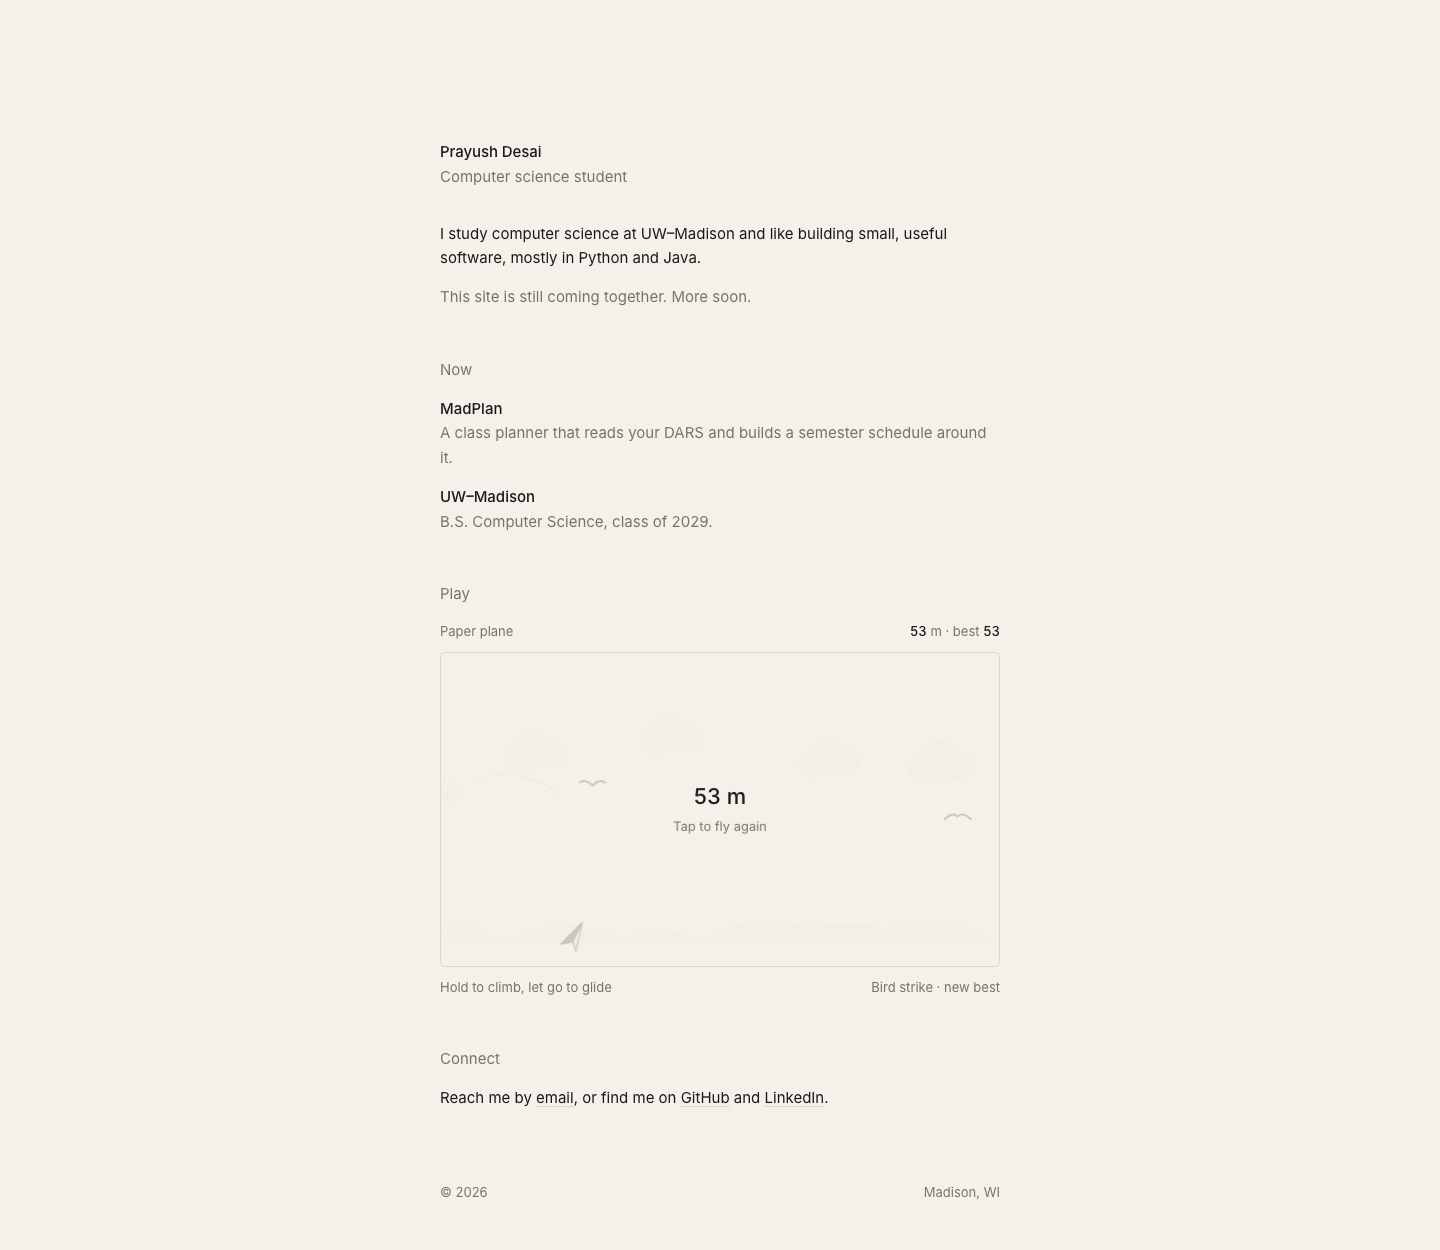
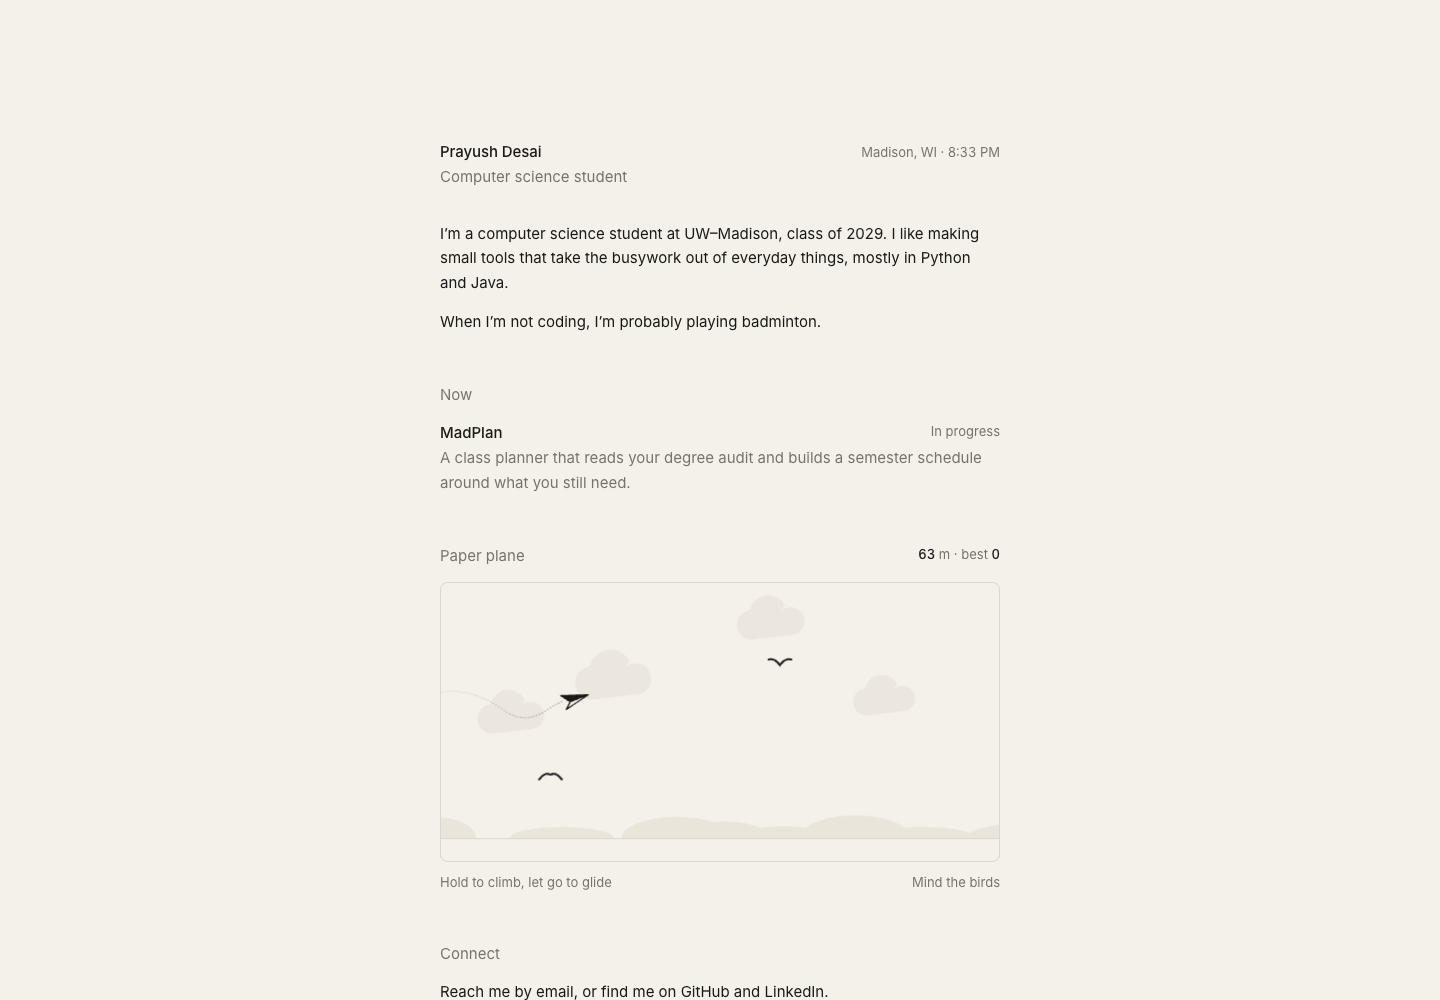
Tighten homepage: clock, personal intro, lighter game framing

diff --git a/index.html b/index.html
@@ -4,7 +4,7 @@
 <meta charset="utf-8">
 <meta name="viewport" content="width=device-width, initial-scale=1">
 <title>Prayush Desai</title>
-<meta name="description" content="Prayush Desai studies computer science at UW–Madison and is building MadPlan, a class planner for UW students.">
+<meta name="description" content="Prayush Desai studies computer science at UW-Madison and is building MadPlan, a class planner for UW students.">
 <meta name="theme-color" content="#f4f1ea">
 <meta name="color-scheme" content="light">
 <link rel="canonical" href="https://prayushdesai.com/">
@@ -31,6 +31,7 @@
   body {
     background: var(--bg); color: var(--ink);
     font: 400 15px/1.65 "Inter", system-ui, sans-serif;
+    text-wrap: pretty;
     font-feature-settings: "cv11", "ss01";
     -webkit-font-smoothing: antialiased;
   }
@@ -45,8 +46,10 @@
   }
   a:hover, a:focus-visible { text-decoration-color: currentColor; outline: none; }
 
+  header { display: flex; justify-content: space-between; align-items: baseline; gap: 16px; }
   h1 { font-size: 15px; font-weight: 500; letter-spacing: -.005em; }
-  .role { color: var(--soft); }
+  .role, .clock { color: var(--soft); }
+  .clock { font-size: 13px; font-variant-numeric: tabular-nums; white-space: nowrap; }
 
   section { margin-top: 48px; }
   h2 { font-size: 15px; font-weight: 400; color: var(--soft); margin-bottom: 14px; }
@@ -55,8 +58,12 @@
   .soft { color: var(--soft); }
 
   ul { list-style: none; display: grid; gap: 14px; }
+  li { display: grid; grid-template-columns: 1fr auto; column-gap: 16px; }
   li .t { font-weight: 500; }
-  li .d { display: block; color: var(--soft); }
+  li .tag { font-size: 13px; color: var(--soft); align-self: baseline; }
+  li .d { grid-column: 1 / -1; color: var(--soft); }
+  h2 .score { float: right; font-size: 13px; }
+  h2 .score b { font-weight: 500; color: var(--ink); font-variant-numeric: tabular-nums; }
 
   footer { margin-top: 72px; display: flex; justify-content: space-between; gap: 16px; font-size: 13px; color: var(--soft); }
 
@@ -67,16 +74,13 @@
   .rise:nth-child(6) { animation-delay: .30s; } .rise:nth-child(7) { animation-delay: .36s; }
   @keyframes in { to { opacity: 1; transform: none; } }
 
-  .game-head, .game-foot { display: flex; justify-content: space-between; gap: 12px; font-size: 13px; color: var(--soft); }
-  .game-head { margin-bottom: 10px; }
-  .game-head b { font-weight: 500; color: var(--ink); font-variant-numeric: tabular-nums; }
-  .game-foot { margin-top: 10px; }
+  .game-foot { display: flex; justify-content: space-between; gap: 12px; font-size: 13px; color: var(--soft); margin-top: 10px; }
   .game canvas {
-    display: block; width: 100%; aspect-ratio: 16 / 9; border: 1px solid var(--rule); border-radius: 6px;
+    display: block; width: 100%; aspect-ratio: 2 / 1; border: 1px solid var(--rule); border-radius: 8px;
     cursor: pointer; touch-action: none; -webkit-tap-highlight-color: transparent; user-select: none; -webkit-user-select: none;
   }
   .game canvas:focus-visible { outline: 1px solid var(--ink); outline-offset: 3px; }
-  @media (max-width: 520px) { .game canvas { aspect-ratio: 4 / 3; } }
+  @media (max-width: 520px) { .game canvas { aspect-ratio: 3 / 2; } }
 
   @media (prefers-reduced-motion: reduce) { .rise { animation: none; opacity: 1; transform: none; } }
 </style>
@@ -85,26 +89,27 @@
 
 <main>
   <header class="rise">
-    <h1>Prayush Desai</h1>
-    <div class="role">Computer science student</div>
+    <div>
+      <h1>Prayush Desai</h1>
+      <div class="role">Computer science student</div>
+    </div>
+    <span class="clock" id="clock">Madison, WI</span>
   </header>
 
   <div class="intro rise">
-    <p>I study computer science at UW–Madison and like building small, useful software, mostly in Python and Java.</p>
-    <p class="soft">This site is still coming together. More soon.</p>
+    <p>I’m a computer science student at UW–Madison, class of 2029. I like making small tools that take the busywork out of everyday things, mostly in Python and Java.</p>
+    <p>When I’m not coding, I’m probably playing badminton.</p>
   </div>
 
   <section class="rise">
     <h2>Now</h2>
     <ul>
-      <li><span class="t">MadPlan</span><span class="d">A class planner that reads your DARS and builds a semester schedule around it.</span></li>
-      <li><span class="t">UW–Madison</span><span class="d">B.S. Computer Science, class of 2029.</span></li>
+      <li><span class="t">MadPlan</span><span class="tag">In progress</span><span class="d">A class planner that reads your degree audit and builds a semester schedule around what you still need.</span></li>
     </ul>
   </section>
 
   <section class="rise game" aria-label="Paper plane, a small game">
-    <h2>Play</h2>
-    <div class="game-head"><span>Paper plane</span><span><b id="score">0</b> m · best <b id="best">0</b></span></div>
+    <h2>Paper plane <span class="score"><b id="score">0</b> m · best <b id="best">0</b></span></h2>
     <canvas id="sky" tabindex="0" aria-label="Game area. Hold space or press and hold to climb, let go to glide."></canvas>
     <div class="game-foot"><span>Hold to climb, let go to glide</span><span id="msg">Mind the birds</span></div>
   </section>
@@ -116,11 +121,18 @@
 
   <footer class="rise">
     <span>© 2026</span>
-    <span>Madison, WI</span>
+    <span>Still being built</span>
   </footer>
 </main>
 
 <script>
+(() => {
+  const el = document.getElementById("clock");
+  const fmt = new Intl.DateTimeFormat("en-US", { hour: "numeric", minute: "2-digit", timeZone: "America/Chicago" });
+  const tick = () => { el.textContent = "Madison, WI · " + fmt.format(new Date()); };
+  tick(); setInterval(tick, 20000);
+})();
+
 (() => {
   const canvas = document.getElementById("sky");
   const ctx = canvas.getContext("2d");
